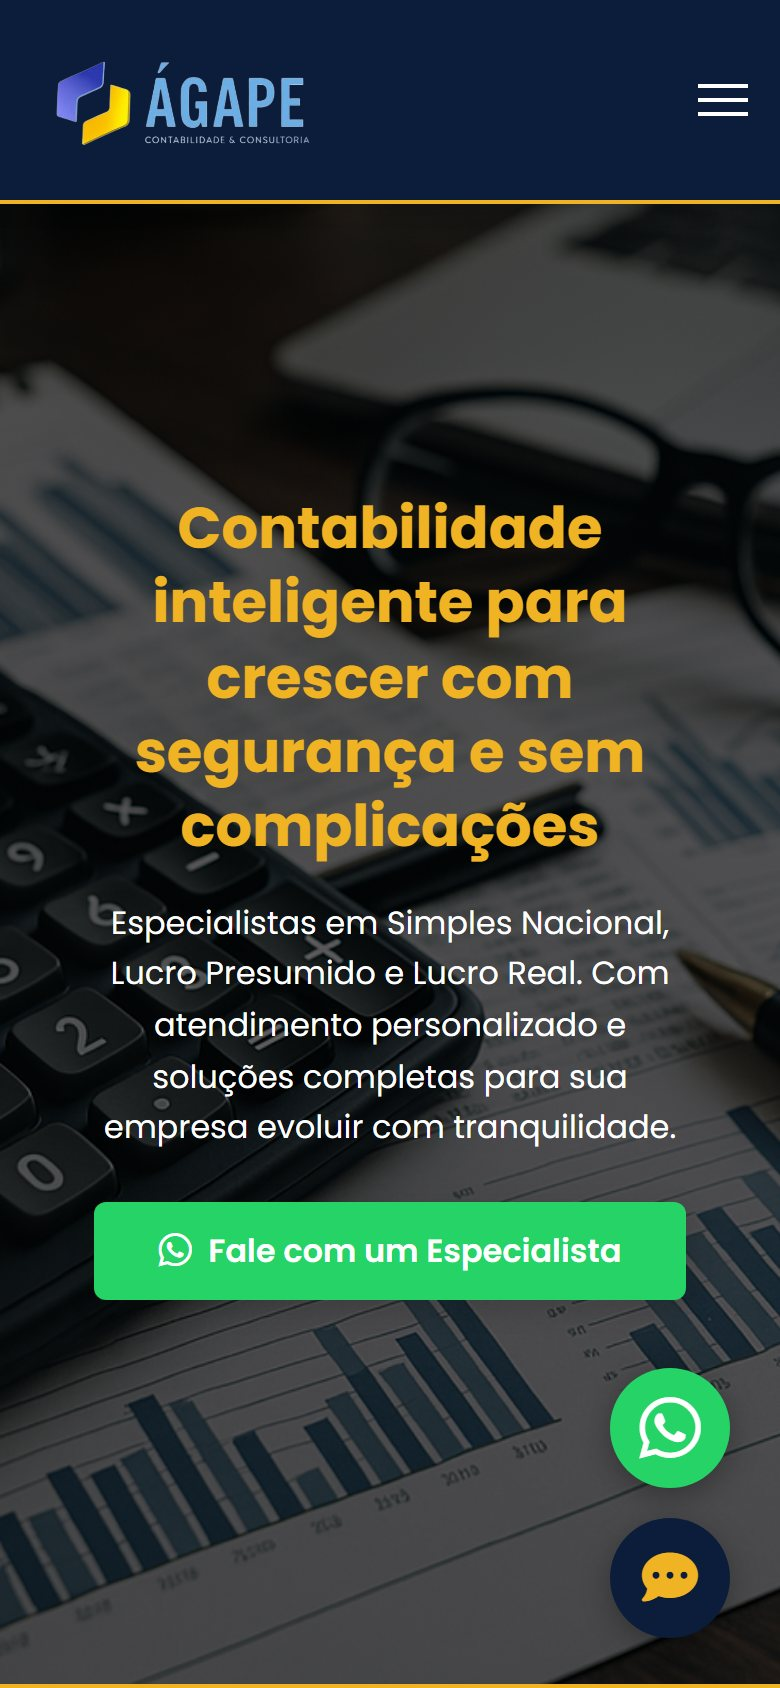
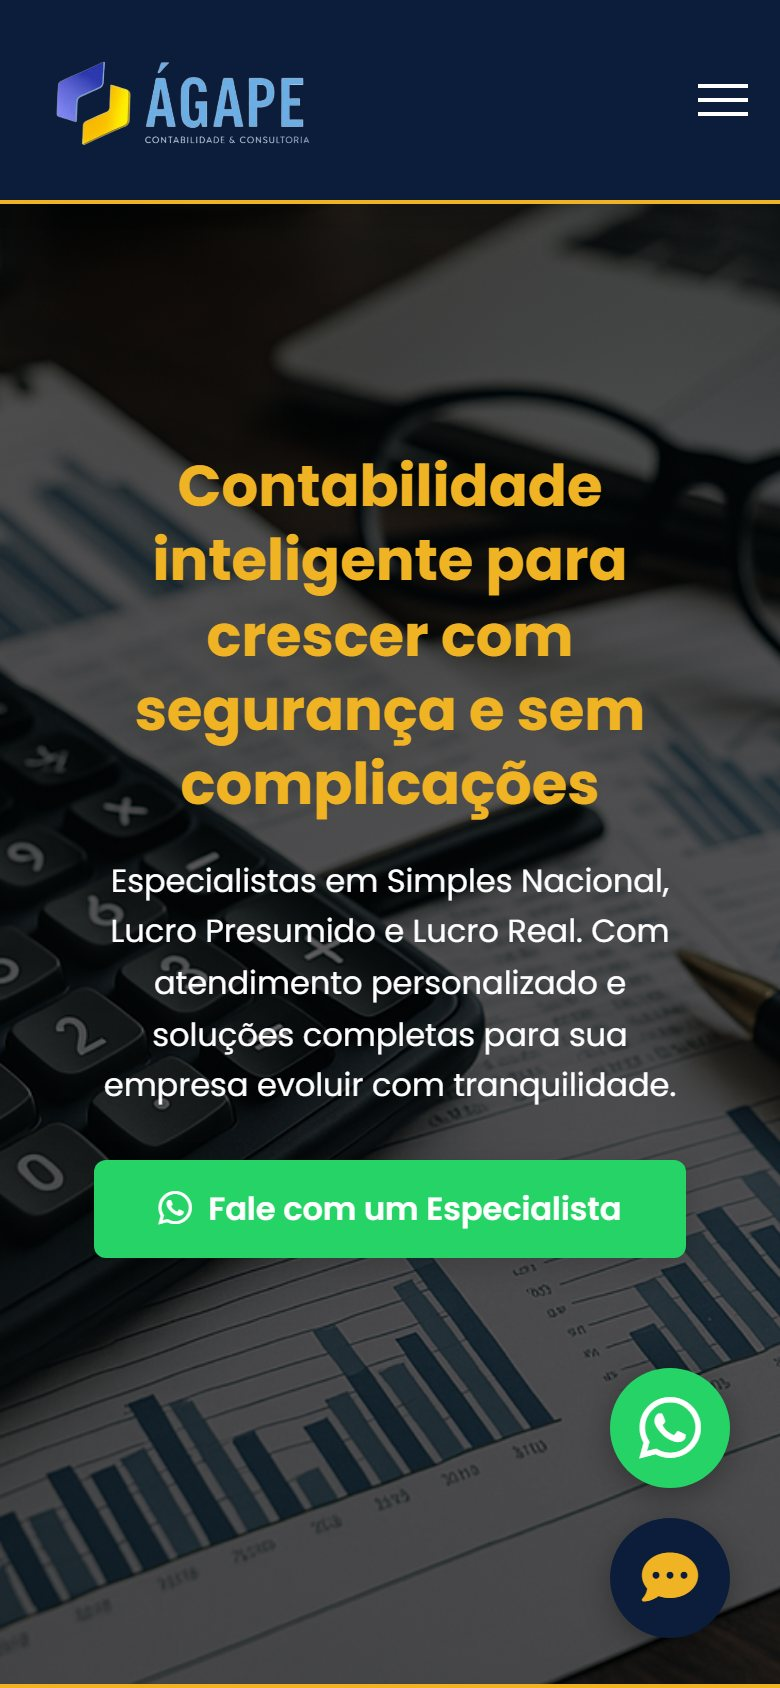
feat: linka o site publicado da Agape no case e atualiza as imagens

Changed region(s): [[0.1231, 0.2773, 0.8923, 0.7701]]

diff --git a/index.html b/index.html
@@ -282,7 +282,8 @@
           <li>Contato por WhatsApp</li>
         </ul>
         <div class="caso-links">
-          <a class="botao botao-pequeno" href="https://github.com/Arthurito017/agape_contabilidade" target="_blank" rel="noopener noreferrer">Ver o código <span aria-hidden="true">↗</span></a>
+          <a class="botao botao-pequeno" href="https://agapecontabilidadebsb.com.br/" target="_blank" rel="noopener noreferrer">Visitar o site <span aria-hidden="true">↗</span></a>
+          <a class="link-seta" href="https://github.com/Arthurito017/agape_contabilidade" target="_blank" rel="noopener noreferrer">Ver o código</a>
         </div>
       </div>
     </article>
